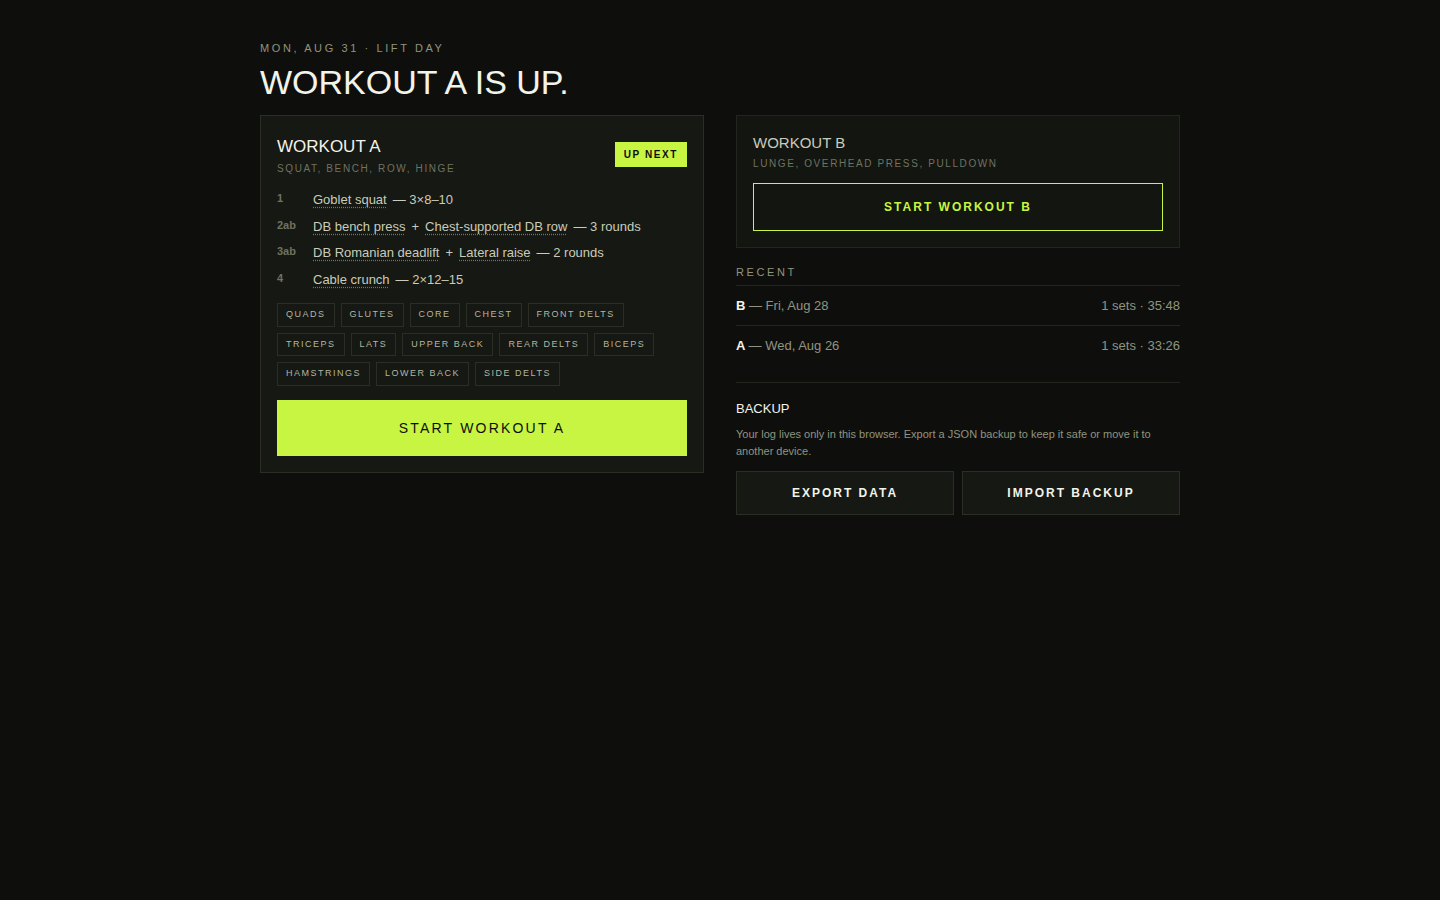
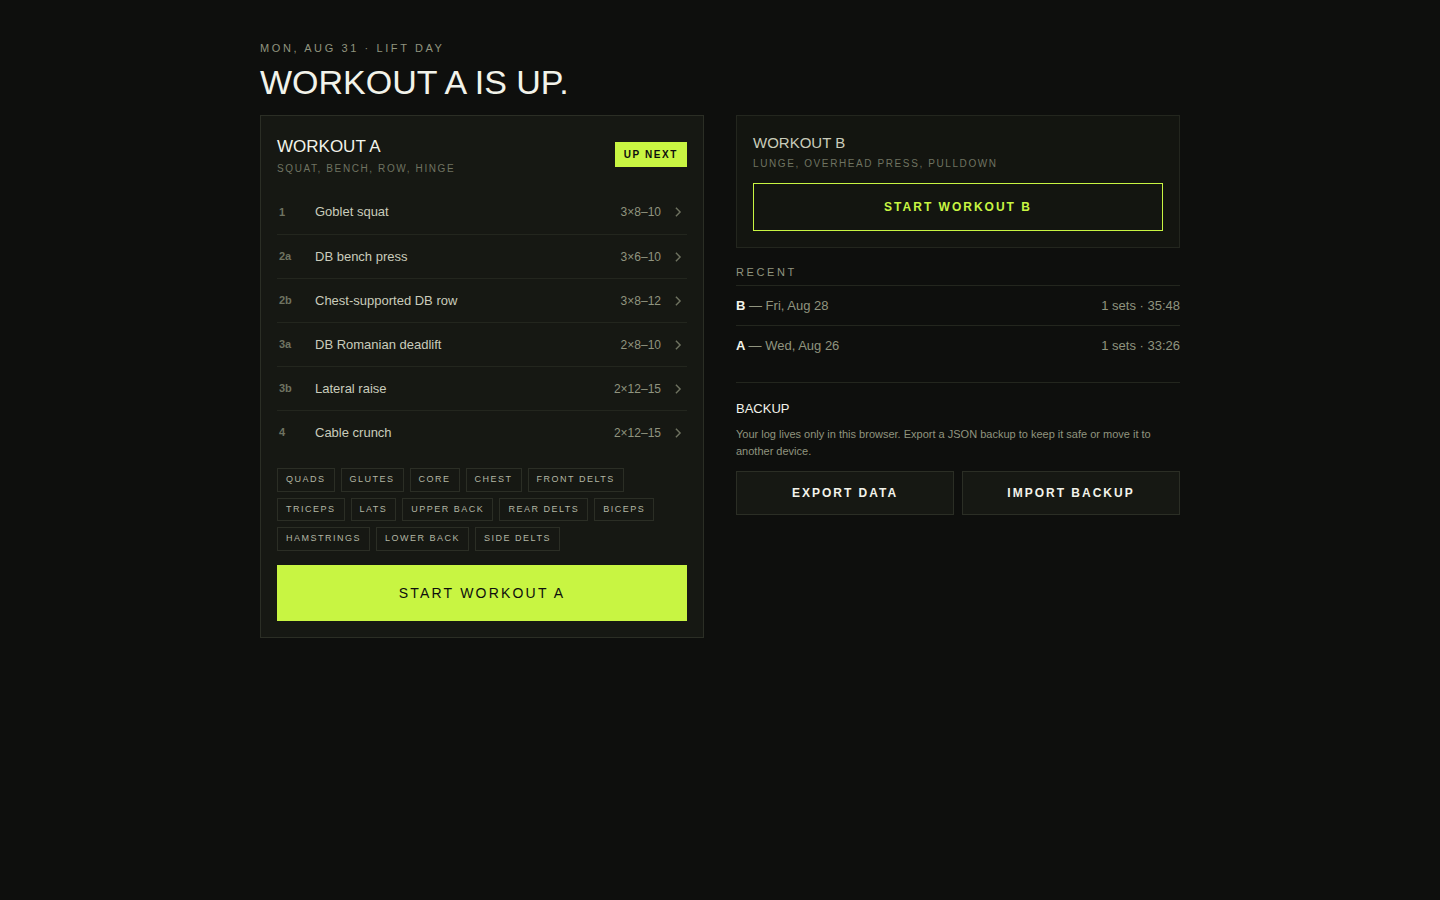
Bigger tap targets for form guides; zoomable photos
Exercise lists on the workout card become full-width 44px rows (one
per exercise, supersets split into their a/b lines with per-exercise
rep schemes and a chevron) instead of small inline text links, and
the Form buttons grow to 44px. In the form sheet, demo photos now
stack full-width on mobile (two-up on desktop, capped at 320px tall)
and tap to open a full-screen lightbox for a closer look.

Claude-Session: https://claude.ai/code/session_015yeyKmXgk7aG1j9ZEAzQuq

diff --git a/src/components/workout/WorkoutTracker.svelte b/src/components/workout/WorkoutTracker.svelte
@@ -735,33 +735,30 @@
             </div>
             <span class="tag-accent">Up next</span>
           </div>
-          <div class="flex flex-col gap-[7px] text-[13px]" style="color: #c9ccbb;">
+          <div class="flex flex-col">
             {#each suggestedWorkout.blocks as block (block.label)}
-              <div class="flex gap-2.5">
-                <span class="w-[26px] shrink-0 text-[11px] font-bold" style="color: var(--muted2);"
-                  >{block.kind === 'single' ? block.label : `${block.label}ab`}</span
-                >
-                <span class="flex flex-wrap items-baseline gap-x-1.5">
-                  {#if block.kind === 'single'}
-                    {@const ex = block.exercise}
-                    <button type="button" class="ex-link" onclick={() => (formExercise = ex)}
-                      >{ex.name}</button
-                    >
-                    <span>— {block.sets}×{repRange(ex)}{ex.perSide ? ` / ${ex.perSide}` : ''}</span>
-                  {:else}
-                    {@const a = block.exercises[0]}
-                    {@const b = block.exercises[1]}
-                    <button type="button" class="ex-link" onclick={() => (formExercise = a)}
-                      >{a.name}</button
-                    >
-                    <span>+</span>
-                    <button type="button" class="ex-link" onclick={() => (formExercise = b)}
-                      >{b.name}</button
-                    >
-                    <span>— {block.sets} rounds</span>
-                  {/if}
-                </span>
-              </div>
+              {#each blockExercises(block) as ex, i (ex.id)}
+                <button type="button" class="ex-row" onclick={() => (formExercise = ex)}>
+                  <span class="ex-row-label"
+                    >{block.kind === 'single'
+                      ? block.label
+                      : block.label + (i === 0 ? 'a' : 'b')}</span
+                  >
+                  <span class="ex-row-name">{ex.name}</span>
+                  <span class="tab ex-row-reps"
+                    >{block.sets}×{repRange(ex)}{ex.perSide ? ` / ${ex.perSide}` : ''}</span
+                  >
+                  <svg
+                    class="shrink-0"
+                    width="14"
+                    height="14"
+                    viewBox="0 0 20 20"
+                    fill="none"
+                    aria-hidden="true"
+                    ><path d="M7 4l6 6-6 6" stroke="#6f7361" stroke-width="2" /></svg
+                  >
+                </button>
+              {/each}
             {/each}
           </div>
           {@render chips(workoutMuscles(suggestedWorkout))}
@@ -1267,27 +1264,50 @@
     letter-spacing: 1.6px;
     text-transform: uppercase;
   }
-  .ex-link {
+  .ex-row {
+    display: flex;
+    align-items: center;
+    gap: 10px;
+    width: 100%;
+    min-height: 44px;
+    padding: 4px 2px;
     background: transparent;
     border: 0;
-    padding: 0;
+    border-top: 1px solid var(--line2);
+    border-radius: 0;
     cursor: pointer;
-    color: #c9ccbb;
-    font-size: 13px;
     font-family: inherit;
     text-align: left;
-    text-decoration: underline dotted var(--muted2);
-    text-underline-offset: 3px;
   }
-  .ex-link:hover {
+  .ex-row:first-child {
+    border-top: 0;
+  }
+  .ex-row-label {
+    width: 26px;
+    flex-shrink: 0;
+    font-size: 11px;
+    font-weight: 700;
+    color: var(--muted2);
+  }
+  .ex-row-name {
+    flex: 1;
+    font-size: 13px;
+    color: #c9ccbb;
+  }
+  .ex-row-reps {
+    flex-shrink: 0;
+    font-size: 12px;
+    color: var(--muted);
+  }
+  .ex-row:hover .ex-row-name {
     color: var(--accent);
   }
   .form-btn {
     display: inline-flex;
     align-items: center;
     justify-content: center;
-    height: 36px;
-    padding: 0 12px;
+    height: 44px;
+    padding: 0 14px;
     background: transparent;
     border: 1px solid var(--line);
     border-radius: 0;

diff --git a/src/components/workout/FormSheet.svelte b/src/components/workout/FormSheet.svelte
@@ -11,10 +11,14 @@
 
   const guide = $derived(FORM_GUIDES[exercise.id]);
   let hiddenImages = $state<Record<string, boolean>>({});
+  let zoomedImage = $state<string | null>(null);
 
   $effect(() => {
     const onKey = (e: KeyboardEvent) => {
-      if (e.key === 'Escape') onclose();
+      if (e.key === 'Escape') {
+        if (zoomedImage) zoomedImage = null;
+        else onclose();
+      }
     };
     window.addEventListener('keydown', onKey);
     return () => window.removeEventListener('keydown', onKey);
@@ -42,17 +46,22 @@
     {/if}
 
     {#if guide}
-      <div class="mt-3 grid grid-cols-2 gap-2">
+      <div class="mt-3 grid grid-cols-1 gap-2 md:grid-cols-2">
         {#each guide.images as img (img)}
           {#if !hiddenImages[img]}
-            <img
-              src="{FORM_IMG_BASE}{img}"
-              alt="{exercise.name} demonstration"
-              loading="lazy"
-              class="w-full border"
-              style="border-color: var(--line); background: #fff;"
-              onerror={() => (hiddenImages[img] = true)}
-            />
+            <button
+              type="button"
+              class="img-btn"
+              onclick={() => (zoomedImage = FORM_IMG_BASE + img)}
+              aria-label="Zoom demonstration photo"
+            >
+              <img
+                src="{FORM_IMG_BASE}{img}"
+                alt="{exercise.name} demonstration"
+                loading="lazy"
+                onerror={() => (hiddenImages[img] = true)}
+              />
+            </button>
           {/if}
         {/each}
       </div>
@@ -68,13 +77,24 @@
         {/each}
       </ol>
       <p class="m-0 mt-3 text-[10px]" style="color: var(--muted2);">
-        Guide: “{guide.source}” — Free Exercise DB (public domain)
+        Guide: “{guide.source}” — Free Exercise DB (public domain) · tap a photo to zoom
       </p>
     {:else}
       <p class="m-0 mt-3 text-sm" style="color: var(--muted);">No guide for this one yet.</p>
     {/if}
   </div>
 </div>
+
+{#if zoomedImage}
+  <button
+    type="button"
+    class="lightbox"
+    onclick={() => (zoomedImage = null)}
+    aria-label="Close zoomed photo"
+  >
+    <img src={zoomedImage} alt="{exercise.name} demonstration, zoomed" />
+  </button>
+{/if}
 
 <style>
   .overlay {
@@ -85,21 +105,28 @@
     display: flex;
     align-items: flex-end;
     justify-content: center;
-    padding: 16px;
+    padding: 10px;
   }
   @media (min-width: 768px) {
     .overlay {
       align-items: center;
+      padding: 24px;
     }
   }
   .sheet {
     width: 100%;
-    max-width: 420px;
-    max-height: 85vh;
+    max-width: 440px;
+    max-height: 92dvh;
     overflow-y: auto;
     background: var(--card, #161813);
     border: 1px solid var(--line, #2b2e25);
     padding: 18px 16px 16px;
+  }
+  @media (min-width: 768px) {
+    .sheet {
+      max-width: 600px;
+      padding: 22px 20px 20px;
+    }
   }
   .close-btn {
     width: 44px;
@@ -113,7 +140,42 @@
     border-radius: 0;
     cursor: pointer;
   }
+  .img-btn {
+    display: block;
+    width: 100%;
+    padding: 0;
+    background: #fff;
+    border: 1px solid var(--line, #2b2e25);
+    border-radius: 0;
+    cursor: zoom-in;
+  }
+  .img-btn img {
+    display: block;
+    width: 100%;
+    height: auto;
+    max-height: 320px;
+    object-fit: contain;
+  }
   .steps {
     list-style: none;
+  }
+  .lightbox {
+    position: fixed;
+    inset: 0;
+    z-index: 60;
+    width: 100%;
+    background: rgba(6, 7, 5, 0.96);
+    border: 0;
+    padding: 10px;
+    display: flex;
+    align-items: center;
+    justify-content: center;
+    cursor: zoom-out;
+  }
+  .lightbox img {
+    max-width: 100%;
+    max-height: 100%;
+    object-fit: contain;
+    background: #fff;
   }
 </style>
